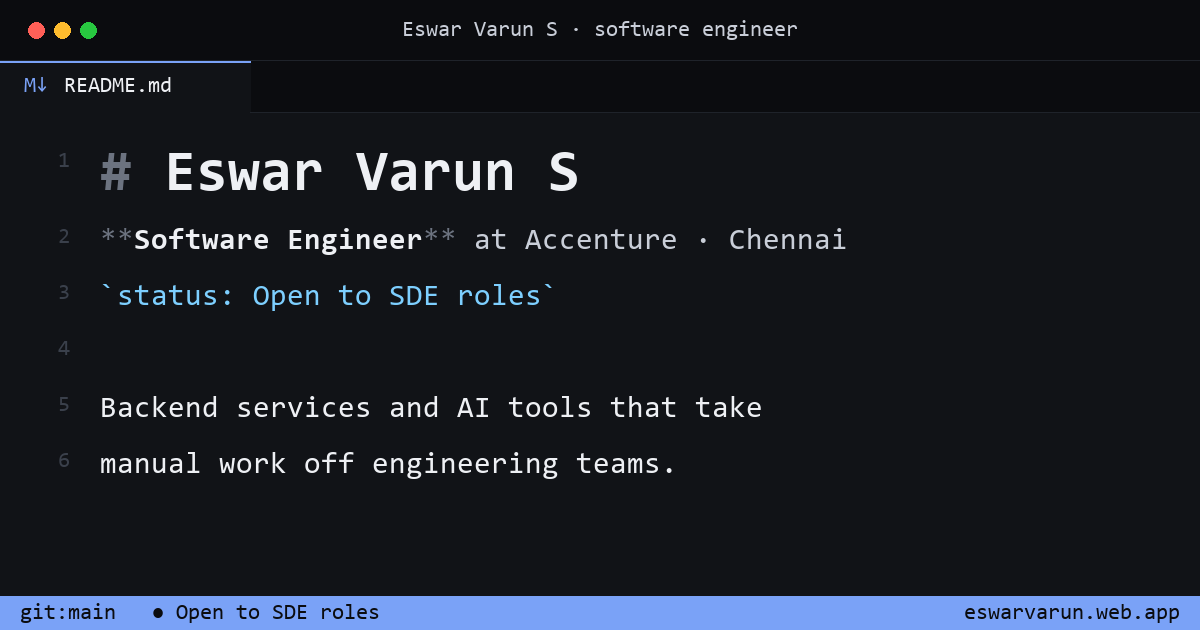
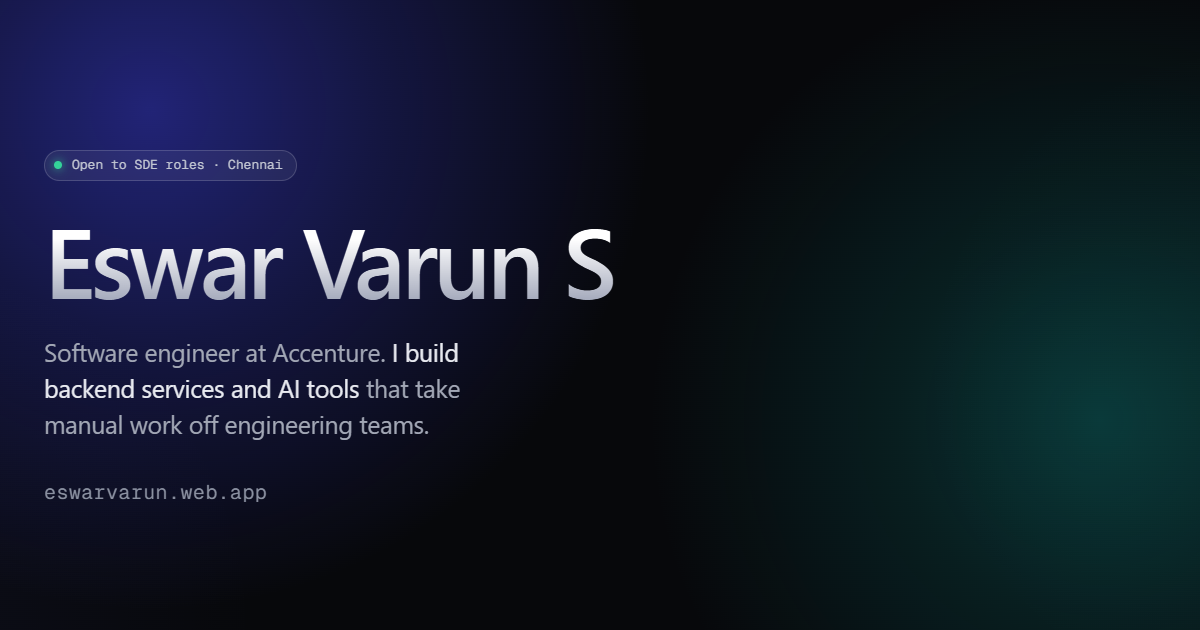
Stop Aurora's idle work and make Aurora the default theme
The two background glows drifted in an endless CSS animation, which made
Chrome restyle and recomposite (including the nav's backdrop blur) on
every frame while the tab sat idle. The glows are now static. Aurora is
the default for new visitors; ?theme=ide or a saved choice keeps the
editor. The share image now shows Aurora.

diff --git a/src/aurora/aurora.css b/src/aurora/aurora.css
@@ -234,8 +234,8 @@ body {
 }
 
 /* Glows live in their own clipped layer so they can't cause sideways
-   scrolling. They are plain radial gradients rather than blurred shapes:
-   same look, but cheap to draw while scrolling on phones. */
+   scrolling. They are static radial gradients rather than blurred or
+   animated shapes: same look, but the page does no work while idle. */
 .au-hero-bg {
   position: absolute;
   inset: 0 0 -160px;
@@ -264,23 +264,6 @@ body {
   background: radial-gradient(closest-side, rgba(14, 143, 138, 0.34), rgba(14, 143, 138, 0.16) 45%, transparent);
 }
 
-/* Slow drift only on desktops, where there's GPU headroom to spare. */
-@media (hover: hover) and (pointer: fine) {
-  .au-glow-a {
-    animation: au-drift 18s ease-in-out infinite alternate;
-    will-change: transform;
-  }
-  .au-glow-b {
-    animation: au-drift 22s ease-in-out infinite alternate-reverse;
-    will-change: transform;
-  }
-}
-
-@keyframes au-drift {
-  to {
-    transform: translate(40px, 30px) scale(1.06);
-  }
-}
 
 .au-hero-inner {
   position: relative;

diff --git a/index.html b/index.html
@@ -28,7 +28,8 @@
         try {
           t = t || localStorage.getItem('theme');
         } catch (e) {}
-        var theme = t === 'aurora' || t === 'midnight' || t === 'cinema' || t === 'poster' ? 'aurora' : 'ide';
+        // Aurora is the default; old theme names (midnight, cinema, poster) map to it.
+        var theme = t === 'ide' ? 'ide' : 'aurora';
         document.documentElement.dataset.theme = theme;
 
         function link(rel, href, as) {
@@ -61,10 +62,10 @@
     </script>
     <style>
       html {
-        background: #0b0c0f;
-      }
-      html[data-theme='aurora'] {
         background: #07080b;
+      }
+      html[data-theme='ide'] {
+        background: #0b0c0f;
       }
     </style>
 

diff --git a/src/themes.ts b/src/themes.ts
@@ -8,7 +8,7 @@ export const THEMES = [
 
 export type ThemeId = (typeof THEMES)[number]['id'];
 
-export const DEFAULT_THEME: ThemeId = 'ide';
+export const DEFAULT_THEME: ThemeId = 'aurora';
 const KEY = 'theme';
 
 // Retired theme ids that should still land somewhere sensible.

diff --git a/README.md b/README.md
@@ -6,10 +6,10 @@ Personal site of **Eswar Varun S**, software engineer. Live at **https://eswarva
 
 The site has two themes over the same content:
 
-- **Editor** (default): an explorer with my projects as Markdown files, `experience.ts`, `skills.json`, a live `github.log`, tabs, and a terminal that takes commands (`help`, `ls`, `open <file>`, `theme`, `resume`, `email`).
-- **Aurora**: a dark product-site look: soft indigo and teal glows, a floating glass nav, project cards with a pointer spotlight that open into a glass detail panel, and live GitHub stats.
+- **Aurora** (default): a dark product-site look: soft indigo and teal glows, a floating glass nav, project cards with a pointer spotlight that open into a glass detail panel, and live GitHub stats.
+- **Editor**: an explorer with my projects as Markdown files, `experience.ts`, `skills.json`, a live `github.log`, tabs, and a terminal that takes commands (`help`, `ls`, `open <file>`, `theme`, `resume`, `email`).
 
-Switch from the status-bar menu, the `theme aurora` terminal command, the "View as editor" link in Aurora's footer, or a link like [`?theme=aurora`](https://eswarvarun.web.app/?theme=aurora). The choice is remembered per visitor.
+Switch from the status-bar menu, the `theme aurora` terminal command, the "View as editor" link in Aurora's footer, or a link like [`?theme=ide`](https://eswarvarun.web.app/?theme=ide) or [`?theme=aurora`](https://eswarvarun.web.app/?theme=aurora). The choice is remembered per visitor.
 
 ## How it works
 
